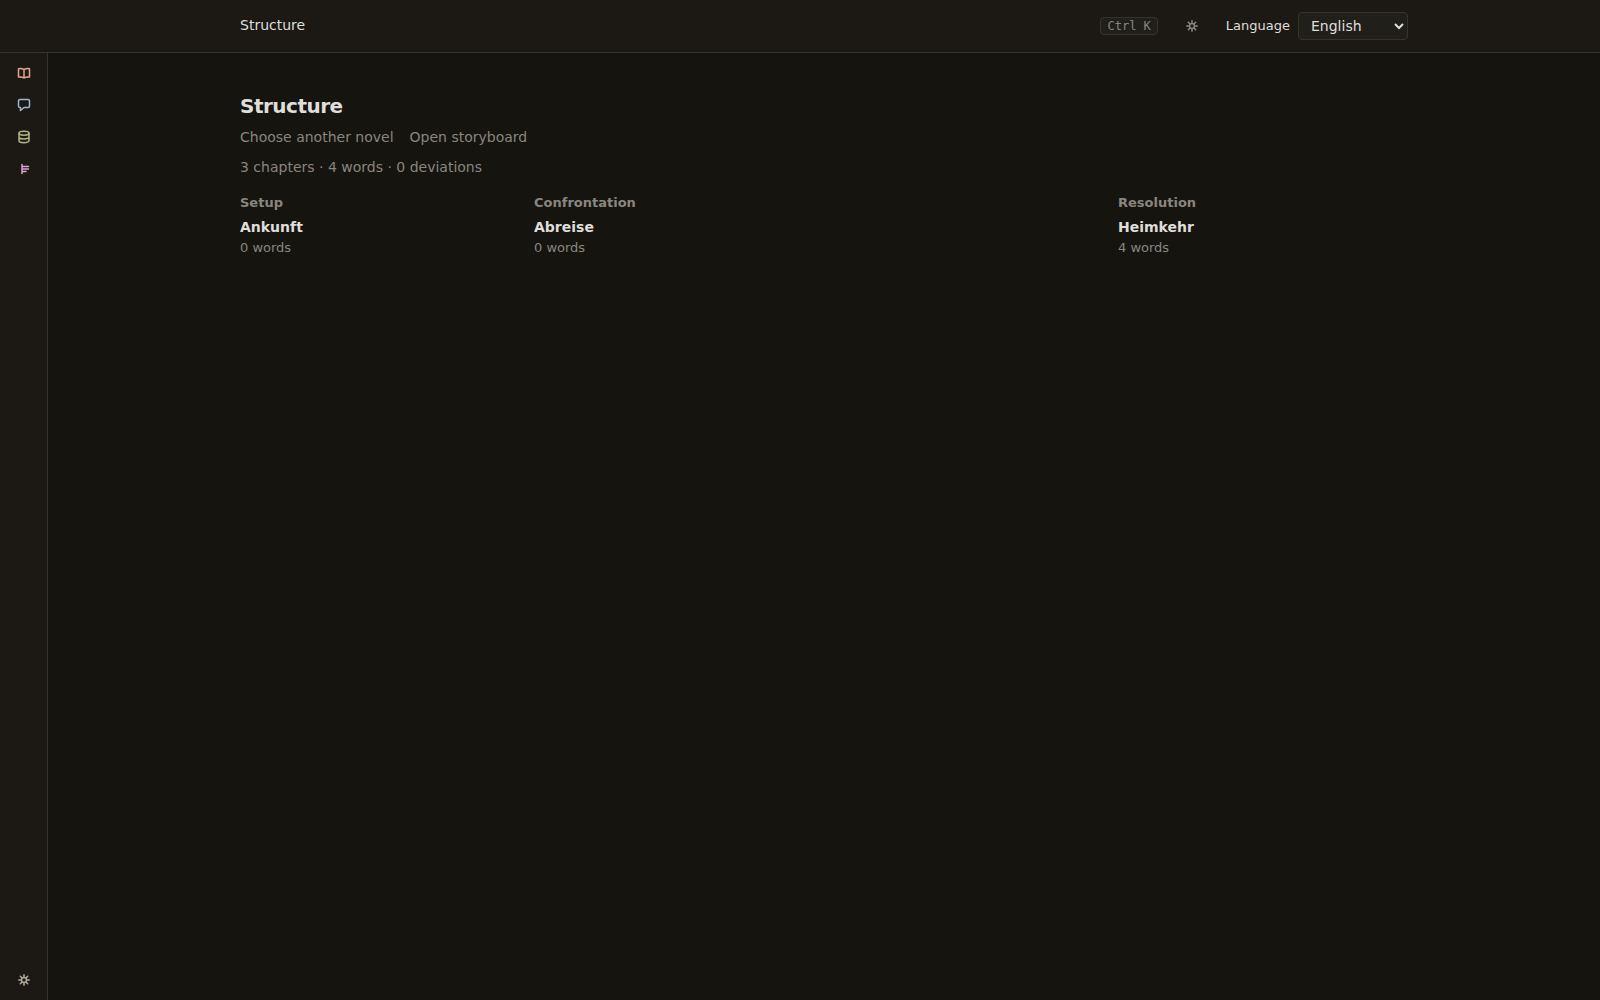
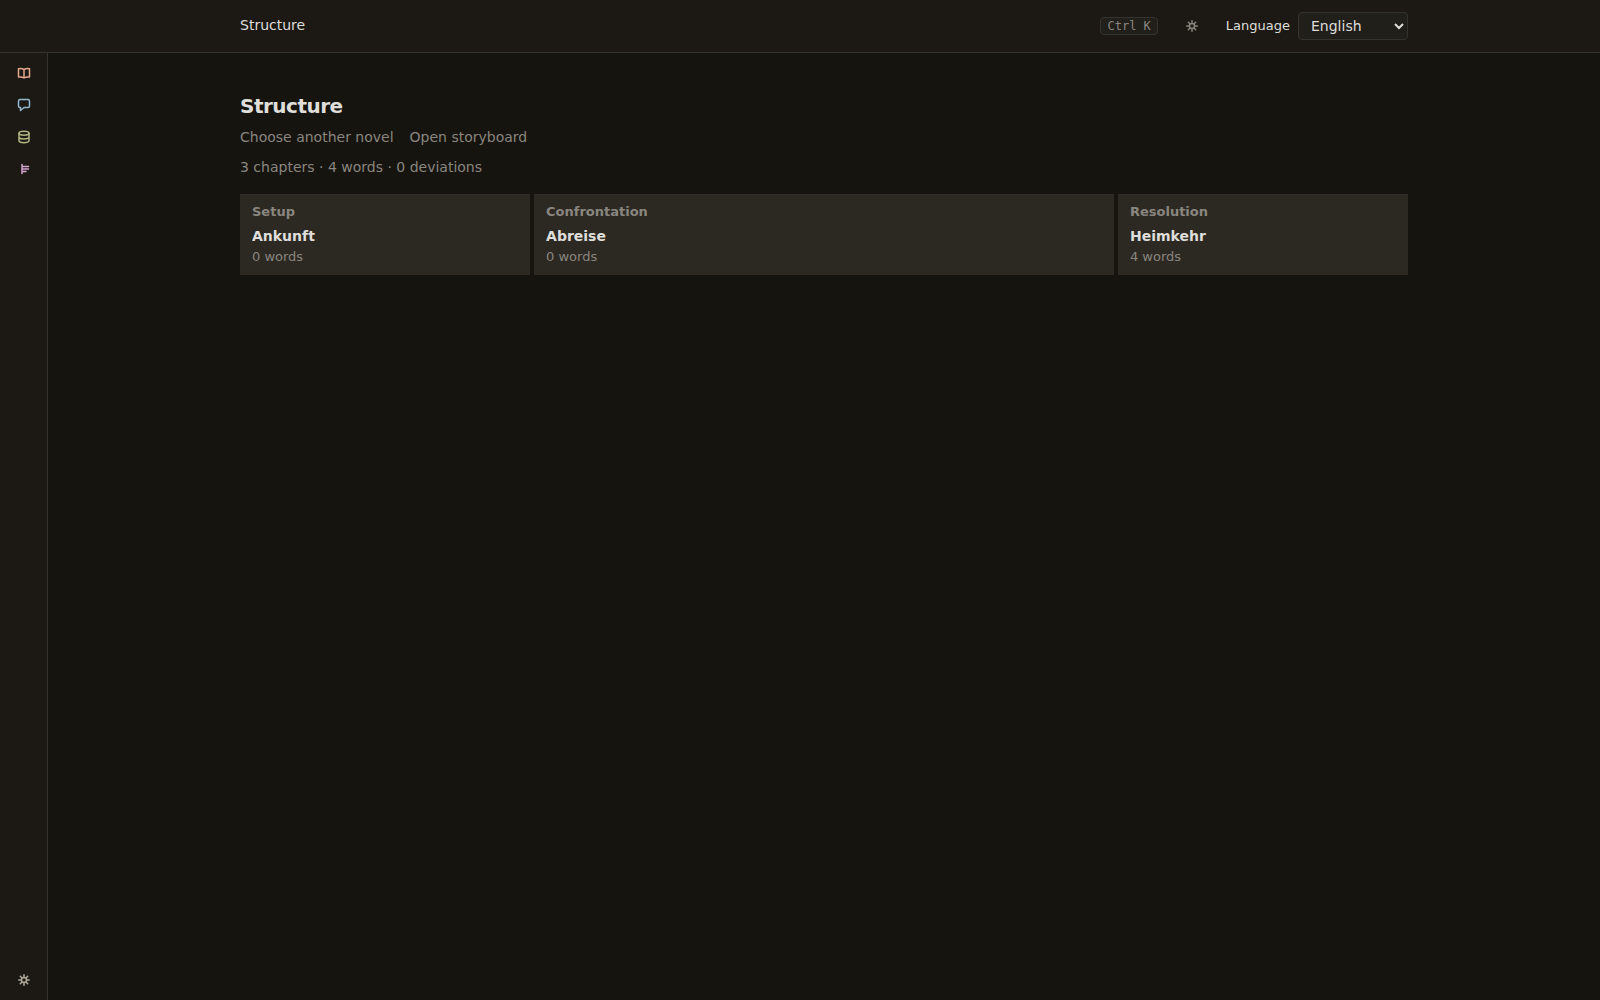
fix(planning): the structure bands show their width
User-visible: the structure canvas now shows act widths at a glance.
Assisted-by: OpenCode (muse-spark-1.3-contributor)

Changed region(s): [[0.6875, 0.186, 0.75, 0.279], [0.3125, 0.186, 0.4062, 0.279], [0.1562, 0.186, 0.1875, 0.279]]

diff --git a/app/capabilities/planning/web/StructurePage.tsx b/app/capabilities/planning/web/StructurePage.tsx
@@ -309,7 +309,7 @@ function StageBand({
     <section
       aria-labelledby={`${headingId}-band`}
       style={{ width: `${share}%` }}
-      className="min-w-0 overflow-hidden"
+      className="min-w-0 overflow-hidden border-t border-rule bg-soft px-3 py-2"
     >
       <h2 id={`${headingId}-band`} className="truncate text-label font-semibold text-muted">
         {stageName(t, stage.title_key, stage.key)}
